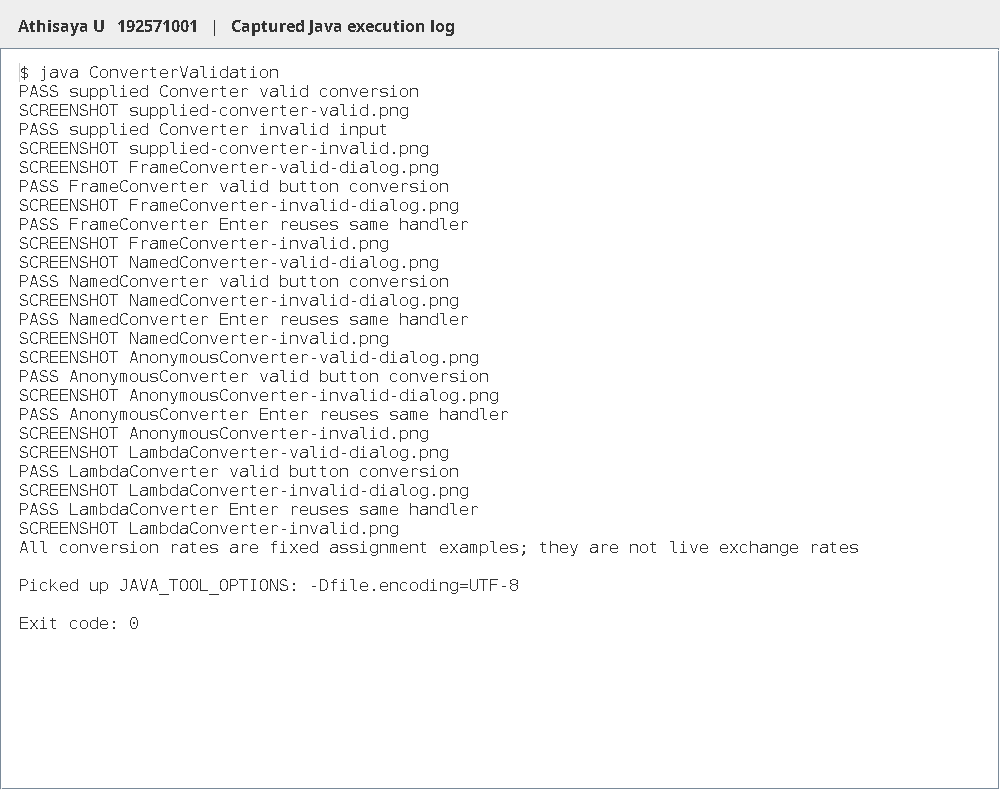
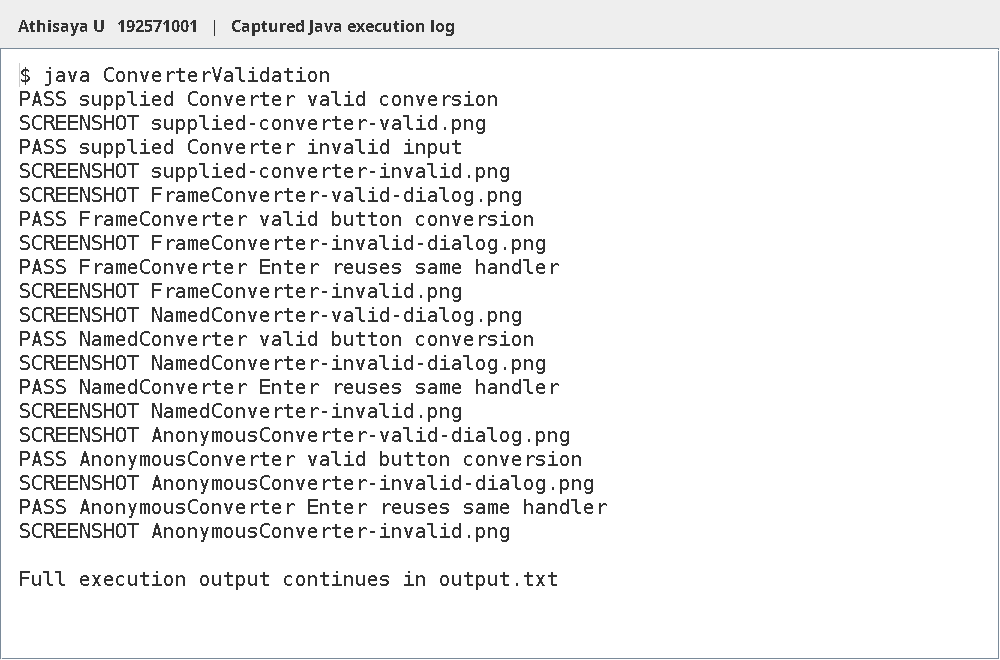
Complete Task05 implementation and execution evidence

diff --git a/Task05/ConverterValidation.java b/Task05/ConverterValidation.java
@@ -2,29 +2,33 @@ import javax.swing.*;
 
 public class ConverterValidation {
   public static void main(String[] args) throws Exception {
-    SwingUtilities.invokeAndWait(() -> {
-      try {
-        Converter supplied = new Converter();
-        supplied.setDefaultCloseOperation(JFrame.DISPOSE_ON_CLOSE);
-        supplied.setLocation(30, 30);
-        supplied.setVisible(true);
-        var amountField = Converter.class.getDeclaredField("amount");
-        var resultField = Converter.class.getDeclaredField("result");
-        amountField.setAccessible(true);
-        resultField.setAccessible(true);
-        JTextField amount = (JTextField) amountField.get(supplied);
-        JLabel result = (JLabel) resultField.get(supplied);
-        amount.setText("1000");
-        amount.postActionEvent();
-        Bench.require(result.getText().equals("12.00"), "supplied Converter valid conversion");
-        GuiEvidence.capture(supplied, "supplied-converter-valid.png");
-        amount.setText("bad");
-        amount.postActionEvent();
-        Bench.require(result.getText().equals("Invalid amount"), "supplied Converter invalid input");
-        GuiEvidence.capture(supplied, "supplied-converter-invalid.png");
-        supplied.dispose();
-      } catch (ReflectiveOperationException e) { throw new RuntimeException(e); }
-    });
+    SwingUtilities.invokeAndWait(
+        () -> {
+          try {
+            Converter supplied = new Converter();
+            supplied.setDefaultCloseOperation(JFrame.DISPOSE_ON_CLOSE);
+            supplied.setLocation(30, 30);
+            supplied.setVisible(true);
+            var amountField = Converter.class.getDeclaredField("amount");
+            var resultField = Converter.class.getDeclaredField("result");
+            amountField.setAccessible(true);
+            resultField.setAccessible(true);
+            JTextField amount = (JTextField) amountField.get(supplied);
+            JLabel result = (JLabel) resultField.get(supplied);
+            amount.setText("1000");
+            amount.postActionEvent();
+            Bench.require(result.getText().equals("12.00"), "supplied Converter valid conversion");
+            GuiEvidence.capture(supplied, "supplied-converter-valid.png");
+            amount.setText("bad");
+            amount.postActionEvent();
+            Bench.require(
+                result.getText().equals("Invalid amount"), "supplied Converter invalid input");
+            GuiEvidence.capture(supplied, "supplied-converter-invalid.png");
+            supplied.dispose();
+          } catch (ReflectiveOperationException e) {
+            throw new RuntimeException(e);
+          }
+        });
     Class<?>[] types = {
       FrameConverter.class, NamedConverter.class, AnonymousConverter.class, LambdaConverter.class
     };

diff --git a/Task05/ConverterStyleLauncher.java b/Task05/ConverterStyleLauncher.java
@@ -1,10 +1,20 @@
 import javax.swing.SwingUtilities;
+
 public class ConverterStyleLauncher {
- public static void main(String[] args){
-  String style=args.length==0?"lambda":args[0];
-  SwingUtilities.invokeLater(()->{
-   CurrencyView view=switch(style){case "frame"->new FrameConverter();case "named"->new NamedConverter();case "anonymous"->new AnonymousConverter();case "lambda"->new LambdaConverter();default->throw new IllegalArgumentException("Use frame, named, anonymous or lambda");};
-   view.setVisible(true);
-  });
- }
+  public static void main(String[] args) {
+    String style = args.length == 0 ? "lambda" : args[0];
+    SwingUtilities.invokeLater(
+        () -> {
+          CurrencyView view =
+              switch (style) {
+                case "frame" -> new FrameConverter();
+                case "named" -> new NamedConverter();
+                case "anonymous" -> new AnonymousConverter();
+                case "lambda" -> new LambdaConverter();
+                default ->
+                    throw new IllegalArgumentException("Use frame, named, anonymous or lambda");
+              };
+          view.setVisible(true);
+        });
+  }
 }
